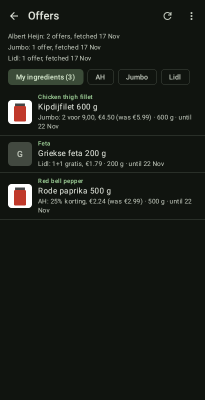
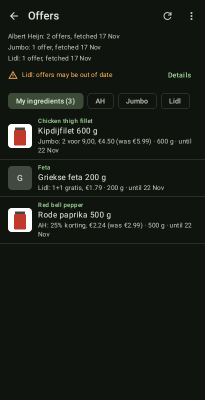
Show the Lidl warning in the app's offer source line (#63)
LidlGuard only logged its warning because v0.1.1 rejects unknown fields. The
offers status now carries it as OfferSourceStatus.warning and the Offers screen
shows it as a warning banner with the text behind Details.

Changed region(s): [[0.0293, 0.15, 0.9366, 0.6], [0.761, 0.18, 0.7902, 0.21]]

diff --git a/server/src/test/kotlin/dev/tobins/mealplanner/server/OffersApiTest.kt b/server/src/test/kotlin/dev/tobins/mealplanner/server/OffersApiTest.kt
@@ -33,7 +33,11 @@ import java.time.Instant
 import java.time.LocalDate
 import kotlin.test.Test
 import kotlin.test.assertEquals
+import kotlin.test.assertContains
 import kotlin.test.assertNotNull
+import io.ktor.client.statement.bodyAsText
+import kotlinx.serialization.Serializable
+import kotlinx.serialization.json.Json
 import kotlin.test.assertNull
 
 class OffersApiTest {
@@ -95,6 +99,35 @@ class OffersApiTest {
         assertEquals(1, repository.warnings(LocalDate.parse("2026-11-23")).size, "everything has ended")
         assertEquals(1, repository.state(LocalDate.parse("2026-11-23")).sources.single { it.store == Store.LIDL }.offerCount, "the offers are kept")
     }
+
+    @Test
+    fun theLidlWarningReachesTheAppsAndOlderClientsStillDecodeTheResponse() = testApplication {
+        val lidl = FakeSource(Store.LIDL, listOf(offer(Store.LIDL, "Rundergehakt", "2026-11-16", "2026-11-22")))
+        val config = ServerConfig(port = 0, databaseUrl = "jdbc:sqlite::memory:", cookingRepo = null)
+        application { module(config, openDatabase(config.databaseUrl).second, listOf(lidl), verifier = TestTokens) }
+        val http = createClient {
+            install(ContentNegotiation) { json() }
+            defaultRequest { bearerAuth("t") }
+        }
+        http.post("/api/offers/refresh")
+
+        val fresh = http.get("/api/offers?date=2026-11-18").bodyAsText()
+        val stale = http.get("/api/offers?date=2026-11-23").bodyAsText()
+        assertNull(Json.decodeFromString<OffersState>(fresh).sources.single { it.store == Store.LIDL }.warning)
+        assertContains(Json.decodeFromString<OffersState>(stale).sources.single { it.store == Store.LIDL }.warning!!, "have ended")
+
+        // The lenient client (ApiClient) skips fields it does not know: a type without `warning` reads both.
+        val lenient = Json { ignoreUnknownKeys = true }
+        assertEquals(3, lenient.decodeFromString<OldOffersState>(stale).sources.size)
+        assertEquals(3, lenient.decodeFromString<OldOffersState>(fresh).sources.size)
+    }
+
+    /** The offers state as the apps before the warning knew it. */
+    @Serializable
+    private data class OldOffersState(val offers: List<Offer>, val sources: List<OldSource>)
+
+    @Serializable
+    private data class OldSource(val store: Store, val fetchedAt: String?, val offerCount: Int, val error: String?)
 
     @Test
     fun scheduledRefreshSkipsStoresFetchedRecently() = runBlocking {

diff --git a/composeApp/src/commonMain/kotlin/dev/tobins/mealplanner/app/Chrome.kt b/composeApp/src/commonMain/kotlin/dev/tobins/mealplanner/app/Chrome.kt
@@ -36,6 +36,7 @@ import androidx.compose.runtime.remember
 import androidx.compose.runtime.setValue
 import androidx.compose.ui.Alignment
 import androidx.compose.ui.Modifier
+import androidx.compose.ui.graphics.Color
 import androidx.compose.ui.graphics.vector.ImageVector
 import androidx.compose.ui.semantics.contentDescription
 import androidx.compose.ui.semantics.semantics
@@ -108,11 +109,20 @@ fun OverflowMenu(vararg actions: MenuAction) {
  * shows the full [details] (often a long technical message) in a dialog.
  */
 @Composable
-fun ErrorBanner(summary: String, details: String, modifier: Modifier = Modifier) {
+fun ErrorBanner(summary: String, details: String, modifier: Modifier = Modifier) =
+    DetailsBanner(summary, details, AppIcons.Error, MaterialTheme.colorScheme.error, modifier)
+
+/** Like [ErrorBanner], in the warning colour: for something that works but may not be right. */
+@Composable
+fun WarningBanner(summary: String, details: String, modifier: Modifier = Modifier) =
+    DetailsBanner(summary, details, AppIcons.Warning, MaterialTheme.warning, modifier)
+
+@Composable
+private fun DetailsBanner(summary: String, details: String, icon: ImageVector, tint: Color, modifier: Modifier) {
     var open by remember { mutableStateOf(false) }
     Row(modifier, verticalAlignment = Alignment.CenterVertically, horizontalArrangement = Arrangement.spacedBy(Spacing.Related)) {
-        Icon(AppIcons.Error, contentDescription = null, Modifier.size(20.dp), tint = MaterialTheme.colorScheme.error)
-        Text(summary, Modifier.weight(1f), style = MaterialTheme.typography.bodySmall, color = MaterialTheme.colorScheme.error)
+        Icon(icon, contentDescription = null, Modifier.size(20.dp), tint = tint)
+        Text(summary, Modifier.weight(1f), style = MaterialTheme.typography.bodySmall, color = tint)
         TextButton(onClick = { open = true }) { Text(LocalStrings.current(Msg.DETAILS)) }
     }
     if (open) {

diff --git a/composeApp/src/commonMain/kotlin/dev/tobins/mealplanner/app/OffersScreen.kt b/composeApp/src/commonMain/kotlin/dev/tobins/mealplanner/app/OffersScreen.kt
@@ -121,21 +121,24 @@ private fun SourceLine(status: OfferSourceStatus) {
     val t = LocalStrings.current
     val fetched = status.fetchedAt?.let { dayMonthLabel(it.take(10), t.locale) }
     val error = status.error
-    when {
-        error != null -> ErrorBanner(
-            if (fetched == null) t(Msg.SOURCE_COULD_NOT_FETCH, status.store.label) else t(Msg.SOURCE_LAST_FAILED, status.store.label, fetched),
-            error,
-        )
-        fetched != null -> Text(
-            t.plural(Plural.SOURCE_FETCHED, status.offerCount, status.store.label, fetched),
-            style = MaterialTheme.typography.bodySmall,
-            color = MaterialTheme.colorScheme.onSurfaceVariant,
-        )
-        else -> Text(
-            t(Msg.SOURCE_NOT_FETCHED, status.store.label),
-            style = MaterialTheme.typography.bodySmall,
-            color = MaterialTheme.colorScheme.onSurfaceVariant,
-        )
+    Column {
+        when {
+            error != null -> ErrorBanner(
+                if (fetched == null) t(Msg.SOURCE_COULD_NOT_FETCH, status.store.label) else t(Msg.SOURCE_LAST_FAILED, status.store.label, fetched),
+                error,
+            )
+            fetched != null -> Text(
+                t.plural(Plural.SOURCE_FETCHED, status.offerCount, status.store.label, fetched),
+                style = MaterialTheme.typography.bodySmall,
+                color = MaterialTheme.colorScheme.onSurfaceVariant,
+            )
+            else -> Text(
+                t(Msg.SOURCE_NOT_FETCHED, status.store.label),
+                style = MaterialTheme.typography.bodySmall,
+                color = MaterialTheme.colorScheme.onSurfaceVariant,
+            )
+        }
+        status.warning?.let { WarningBanner(t(Msg.SOURCE_WARNING, status.store.label), it) }
     }
 }
 

diff --git a/server/src/main/kotlin/dev/tobins/mealplanner/server/OfferRepository.kt b/server/src/main/kotlin/dev/tobins/mealplanner/server/OfferRepository.kt
@@ -42,21 +42,22 @@ class OfferRepository(private val db: Database, private val sources: List<OfferS
             },
             sources = Store.entries.map { store ->
                 val row = recorded[store.name]
-                OfferSourceStatus(store, row?.fetchedAt, counts[store.name] ?: 0, row?.error)
+                OfferSourceStatus(store, row?.fetchedAt, counts[store.name] ?: 0, row?.error, warning = if (store == Store.LIDL) lidlWarning(date) else null)
             },
         )
     }
 
     /**
-     * Warnings about the stored offers as of [date], for the server log: they are not part of
-     * the API, since apps released before this check fail on fields they do not know. Only
-     * Lidl's page needs one so far.
+     * Warnings about the stored offers as of [date], for the server log; the same texts reach
+     * the apps as [OfferSourceStatus.warning]. Only Lidl's page needs one so far.
      */
-    fun warnings(date: LocalDate): List<String> {
+    fun warnings(date: LocalDate): List<String> = listOfNotNull(lidlWarning(date))
+
+    private fun lidlWarning(date: LocalDate): String? {
         // The widest range: the guard needs the ended offers too.
         val ends = q.selectOffersOverlapping(until = "9999-12-31", from = "0000-01-01").executeAsList()
             .filter { it.store == Store.LIDL.name }.map { LocalDate.parse(it.validUntil) }
-        return listOfNotNull(LidlGuard.warning(ends, date))
+        return LidlGuard.warning(ends, date)
     }
 
     private fun dev.tobins.mealplanner.server.db.Offer.toOffer() =

diff --git a/composeApp/src/androidHostTest/kotlin/dev/tobins/mealplanner/app/FakeBackend.kt b/composeApp/src/androidHostTest/kotlin/dev/tobins/mealplanner/app/FakeBackend.kt
@@ -228,7 +228,10 @@ class FakeBackend(
         sources = listOf(
             OfferSourceStatus(Store.AH, "2026-11-17T06:00:00Z", 2, null),
             OfferSourceStatus(Store.JUMBO, "2026-11-17T06:00:00Z", 1, null),
-            OfferSourceStatus(Store.LIDL, "2026-11-17T06:00:00Z", 1, null),
+            OfferSourceStatus(
+                Store.LIDL, "2026-11-17T06:00:00Z", 1, null,
+                warning = "No Lidl offer runs into next week (the last ends 2026-11-22); the offers page may not show next week's offers.",
+            ),
         ),
     )
 

diff --git a/shared/src/commonMain/kotlin/dev/tobins/mealplanner/api/Offers.kt b/shared/src/commonMain/kotlin/dev/tobins/mealplanner/api/Offers.kt
@@ -46,6 +46,13 @@ data class OfferSourceStatus(
     val offerCount: Int,
     /** Message of the last failed fetch, cleared by a successful one. */
     val error: String?,
+    /**
+     * A warning about the stored offers, in English, when they look stale although the fetch
+     * worked (today only Lidl's page, see docs/data-sources.md). Null when there is none. It is
+     * always in the response, so apps up to v0.1.1, which reject unknown fields, cannot read
+     * the offers any more.
+     */
+    val warning: String? = null,
 )
 
 @Serializable

diff --git a/composeApp/src/commonMain/kotlin/dev/tobins/mealplanner/app/Messages.kt b/composeApp/src/commonMain/kotlin/dev/tobins/mealplanner/app/Messages.kt
@@ -255,6 +255,7 @@ enum class Msg(private val english: String, private val dutch: String) {
     SOURCE_COULD_NOT_FETCH("{0}: could not fetch", "{0}: ophalen is niet gelukt"),
     SOURCE_LAST_FAILED("{0}: last fetch failed, offers from {1}", "{0}: laatste keer ophalen mislukt, aanbiedingen van {1}"),
     SOURCE_NOT_FETCHED("{0}: not fetched yet", "{0}: nog niet opgehaald"),
+    SOURCE_WARNING("{0}: offers may be out of date", "{0}: aanbiedingen zijn mogelijk verouderd"),
     UNTIL("until {0}", "t/m {0}"),
 
     // --- Pantry

diff --git a/docs/data-sources.md b/docs/data-sources.md
@@ -54,8 +54,9 @@ with a Lidl Plus app discount, and are skipped. The offers page address
 The page can also silently stop showing new offers while its tiles still parse. After each
 fetch the server logs a warning (`LidlGuard`) when every Lidl offer has already ended, or when
 it is Friday or later and no Lidl offer runs into next week. The store keeps its offers. The
-warning is only logged for now: apps released before it fail on fields they do not know, so it
-will be shown in the app's offer source line once apps that tolerate new fields are installed.
+same text is sent as `OfferSourceStatus.warning` and the Offers screen shows it under the
+store's source line, in the warning colour, with the text behind "Details". Apps up to v0.1.1
+reject that field; the first app release after v0.1.1 reads it.
 
 Looking for offers beyond this page (2026-11-13 and 2026-11-15, plain page fetches only) found
 none, so the page is the whole list as far as can be found:

diff --git a/README.md b/README.md
@@ -107,7 +107,8 @@ those apps read must not gain fields: new data goes in new routes or types. Once
 optional fields is safe. Removing or renaming a field, or changing its meaning, still breaks installed apps.
 The product pictures (`Offer.imageUrl`, `ShoppingItem.imageUrl`) and the recipe pictures
 (`RecipeSummary.imageUrl`) are the first fields added this way, so they are merged together with the
-first app release after v0.1.1.
+first app release after v0.1.1. `OfferSourceStatus.warning` (the Lidl check) is always in the offers
+response, so it too needs that release installed.
 
 ## Screenshot tests
 
